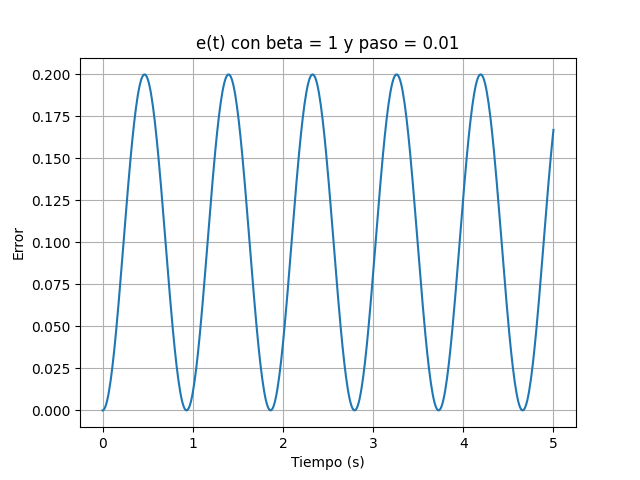
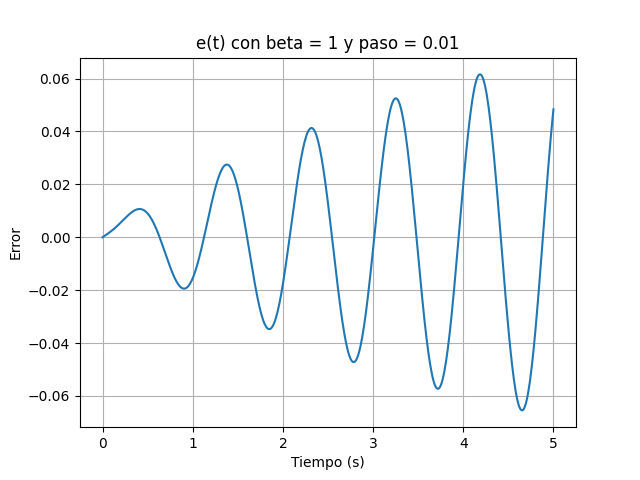
Agrego gráficos con h = 0.001

diff --git a/metodo_ponderado_implicito.py b/metodo_ponderado_implicito.py
@@ -42,7 +42,7 @@ k = 25000
 l_inicial = 0
 c_inicial = 0.1
 t_final = 5
-dt = 0.005
+dt = 0.001
 # dt = 0.05
 
 def euler_implicito(A_inversa, termino_indep, t):
@@ -95,15 +95,14 @@ def solucion_sistema_amortiguado(beta, f, extras, l):
 	v[0] = 0
 
 	# Bucle principal para la integración numérica
+	i = 0
 	for n in range(1, len(t)-1):
 		# Método ponderado implícito
 		u[n+1] = u[n] + dt * (beta * v[n+1] + (1-beta) * v[n])
-		v[n+1] = v[n] + dt * ((beta * f(u[n+1], extras[0], v[n+1], extras[1], n, l)) + ((1 - beta)*(f(u[n], extras[0], v[n], extras[1], n, l))))
+		v[n+1] = v[n] + dt * ((beta * f(u[n+1], extras[0], v[n+1], extras[1], i+dt, l)) + ((1 - beta)*(f(u[n], extras[0], v[n], extras[1], i, l))))
+		i += dt
 	
-	if beta == 1:
-		return v, t
-	
-	return u, t
+	return u, v, t
 
 def grafico(t, u, beta):
 	name = 'solución obtenida con beta = ' + str(beta) + '.png'
@@ -134,12 +133,13 @@ def grafico(t, u, beta):
 	ax.grid(True)
 	plt.savefig(error_name)
 
-def grafico_sistema_amortiguado(t, u, h, beta):
+def grafico_sistema_amortiguado(t, u, v, h, beta):
 	name = 'solución del sistema amortiguado.png'
 	# Graficar la solución
 	ax: plt.Axes
 	fig, ax = plt.subplots()
 	plt.plot(t, u, label='aproximación')
+	plt.plot(t, v, "r--", label='velocidad')
 	plt.title(f'y(t) con beta = {beta} y paso = {h}')
 	plt.xlabel('Tiempo (s)')
 	plt.ylabel('y')
@@ -171,6 +171,6 @@ if __name__ == "__main__":
 	# Prueba del sistema amortiguado con beta = 0.5 y dt = 0.005
 	# l = 750
 	# extras = [c, c_prima]
-	# u2, t2 = solucion_sistema_amortiguado(beta, f, extras, l)
+	# u2, v2, t2 = solucion_sistema_amortiguado(beta, f, extras, l)
 	# print("soulciones:", u2)
-	# grafico_sistema_amortiguado(t2, u2, 0.005, 0.5)
+	# grafico_sistema_amortiguado(t2, u2, v2, dt, 0.5)
